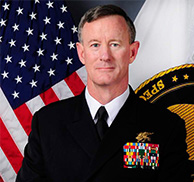
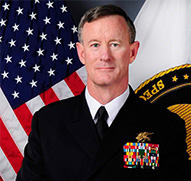
sredjen advisors

diff --git a/css/main.css b/css/main.css
@@ -14,7 +14,7 @@ body {
   font-size: 16px;
   font-family: "Open Sans",sans-serif;
   line-height: 1.8;
-  color: #333; }
+  color: #585c60; }
 
 h1, h2, h3 {
   margin: 0;
@@ -24,13 +24,19 @@ a {
   color: #ffffff;
   text-decoration: none; }
 
+ul {
+  margin: 0;
+  padding: 15px; }
+
 h2 {
   font-size: 50px;
   text-transform: uppercase;
   color: #2e5470; }
 
 h3 {
-  font-size: 30px; }
+  font-size: 30px;
+  color: #56bcbb;
+  font-weight: 300; }
 
 p {
   margin: 0; }
@@ -42,6 +48,7 @@ img {
 hr {
   width: 25%;
   margin: 0;
+  margin-bottom: 25px;
   border: 2px solid #56bcbb; }
 
 article {
@@ -124,6 +131,11 @@ small {
     color: #ffffff;
     text-align: center; }
 
+#advisors blockquote {
+  width: 70%; }
+#advisors article img {
+  border-radius: 50%; }
+
 #investors {
   background-image: url("../img/background-investors.jpg");
   background-size: cover;
@@ -159,23 +171,28 @@ blockquote {
     width: 750px; }
     .container .col-7 {
       width: 58.333%;
-      float: left; }
+      float: left;
+      padding: 10px; }
     .container .col-5 {
       width: 41.666%;
-      float: left; }
+      float: left;
+      padding: 10px; }
     .container .col1-2 {
       width: 50%;
-      float: left; } }
+      float: left;
+      padding: 10px; } }
 /* Medium devices (desktops, 992px and up) */
 @media (min-width: 992px) {
   .container {
     width: 970px; }
     .container .col-8 {
       width: 66.666%;
-      float: left; }
+      float: left;
+      padding: 10px; }
     .container .col-4 {
       width: 33.333%;
-      float: left; } }
+      float: left;
+      padding: 10px; } }
 /* Large devices (large desktops, 1200px and up) */
 @media (min-width: 1200px) {
   .container {

diff --git a/scss/main.scss b/scss/main.scss
@@ -72,6 +72,7 @@
 
 }
 
+
 #portfolio {
   background-image: url("../img/background-portfolio.jpg");
   background-size: cover;
@@ -94,13 +95,27 @@
 
   blockquote {
 
-
     p
     {
       color: $white-color;
       text-align: center;
     }
 
+  }
+
+}
+
+
+#advisors {
+
+  blockquote {
+    width: 70%;
+    }
+
+  article {
+    img {
+      border-radius: 50%;
+    }
   }
 
 }
@@ -182,16 +197,19 @@ blockquote {
     .col-7 {
       width: 58.333%;
       float: left;
+      padding: 10px;
     }
 
     .col-5 {
       width: 41.666%;
       float: left;
+      padding: 10px;
     }
 
     .col1-2 {
       width: 50%;
       float: left;
+      padding: 10px;
     }
       }
 
@@ -205,11 +223,13 @@ blockquote {
     .col-8 {
       width: 66.666%;
       float: left;
+      padding: 10px;
     }
 
     .col-4 {
       width: 33.333%;
       float: left;
+      padding: 10px;
     }
 
 

diff --git a/scss/partials/_global.scss b/scss/partials/_global.scss
@@ -15,9 +15,9 @@ body {
   font-size: $body-font-size;
   font-family: "Open Sans",sans-serif;
   line-height: 1.8;
-  color: #333;
+  color: $body-color;
 }
-h1, h2, h3 {
+h1, h2, h3{
   margin: 0;
   font-family: FuturaStd-Condensed;
 }
@@ -27,7 +27,11 @@ a {
   text-decoration: none;
 }
 
+ul {
+  margin: 0;
+  padding: 15px;
 
+}
 h2 {
   font-size: 50px;
   text-transform: uppercase;
@@ -36,6 +40,8 @@ h2 {
 
 h3 {
   font-size: 30px;
+  color: $heading3-color;
+  font-weight: 300;
 }
 
 p {
@@ -50,6 +56,7 @@ img {
 hr {
   width: 25%;
   margin: 0;
+  margin-bottom: 25px;
   border: 2px solid $border-color;
 
 }

diff --git a/scss/partials/_variable.scss b/scss/partials/_variable.scss
@@ -3,5 +3,7 @@ $border-color: #56bcbb;
 $body-font-size: 16px;
 $white-color: #ffffff;
 $qoute-color-blue: #2e5470;
+$body-color: #585c60;
+$heading3-color: #56bcbb;
 
 
